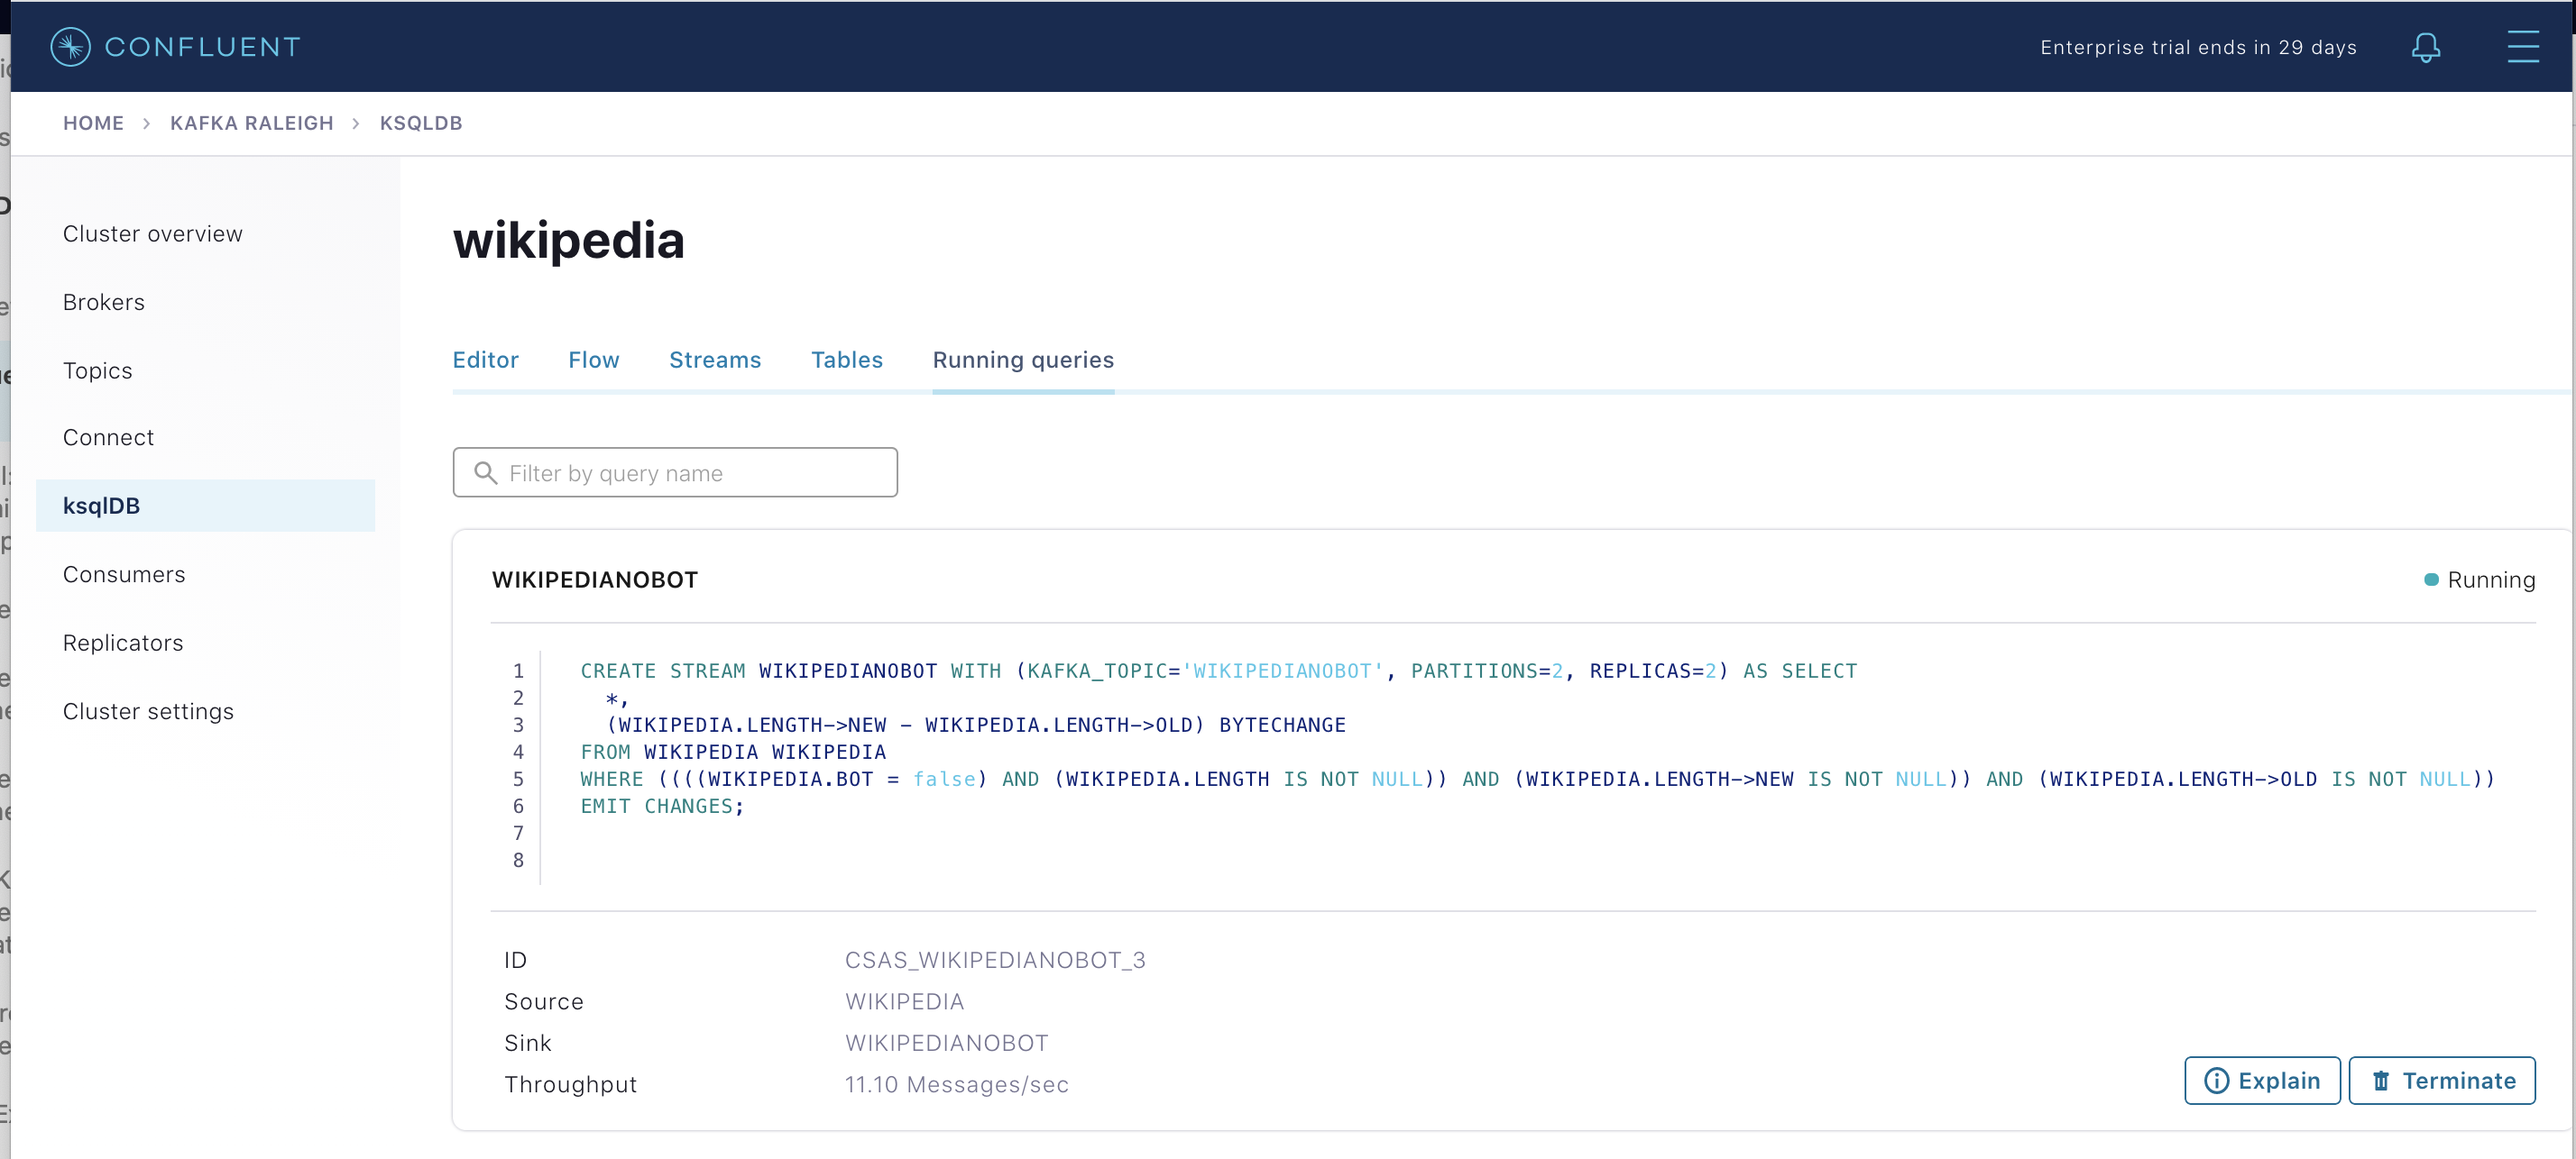
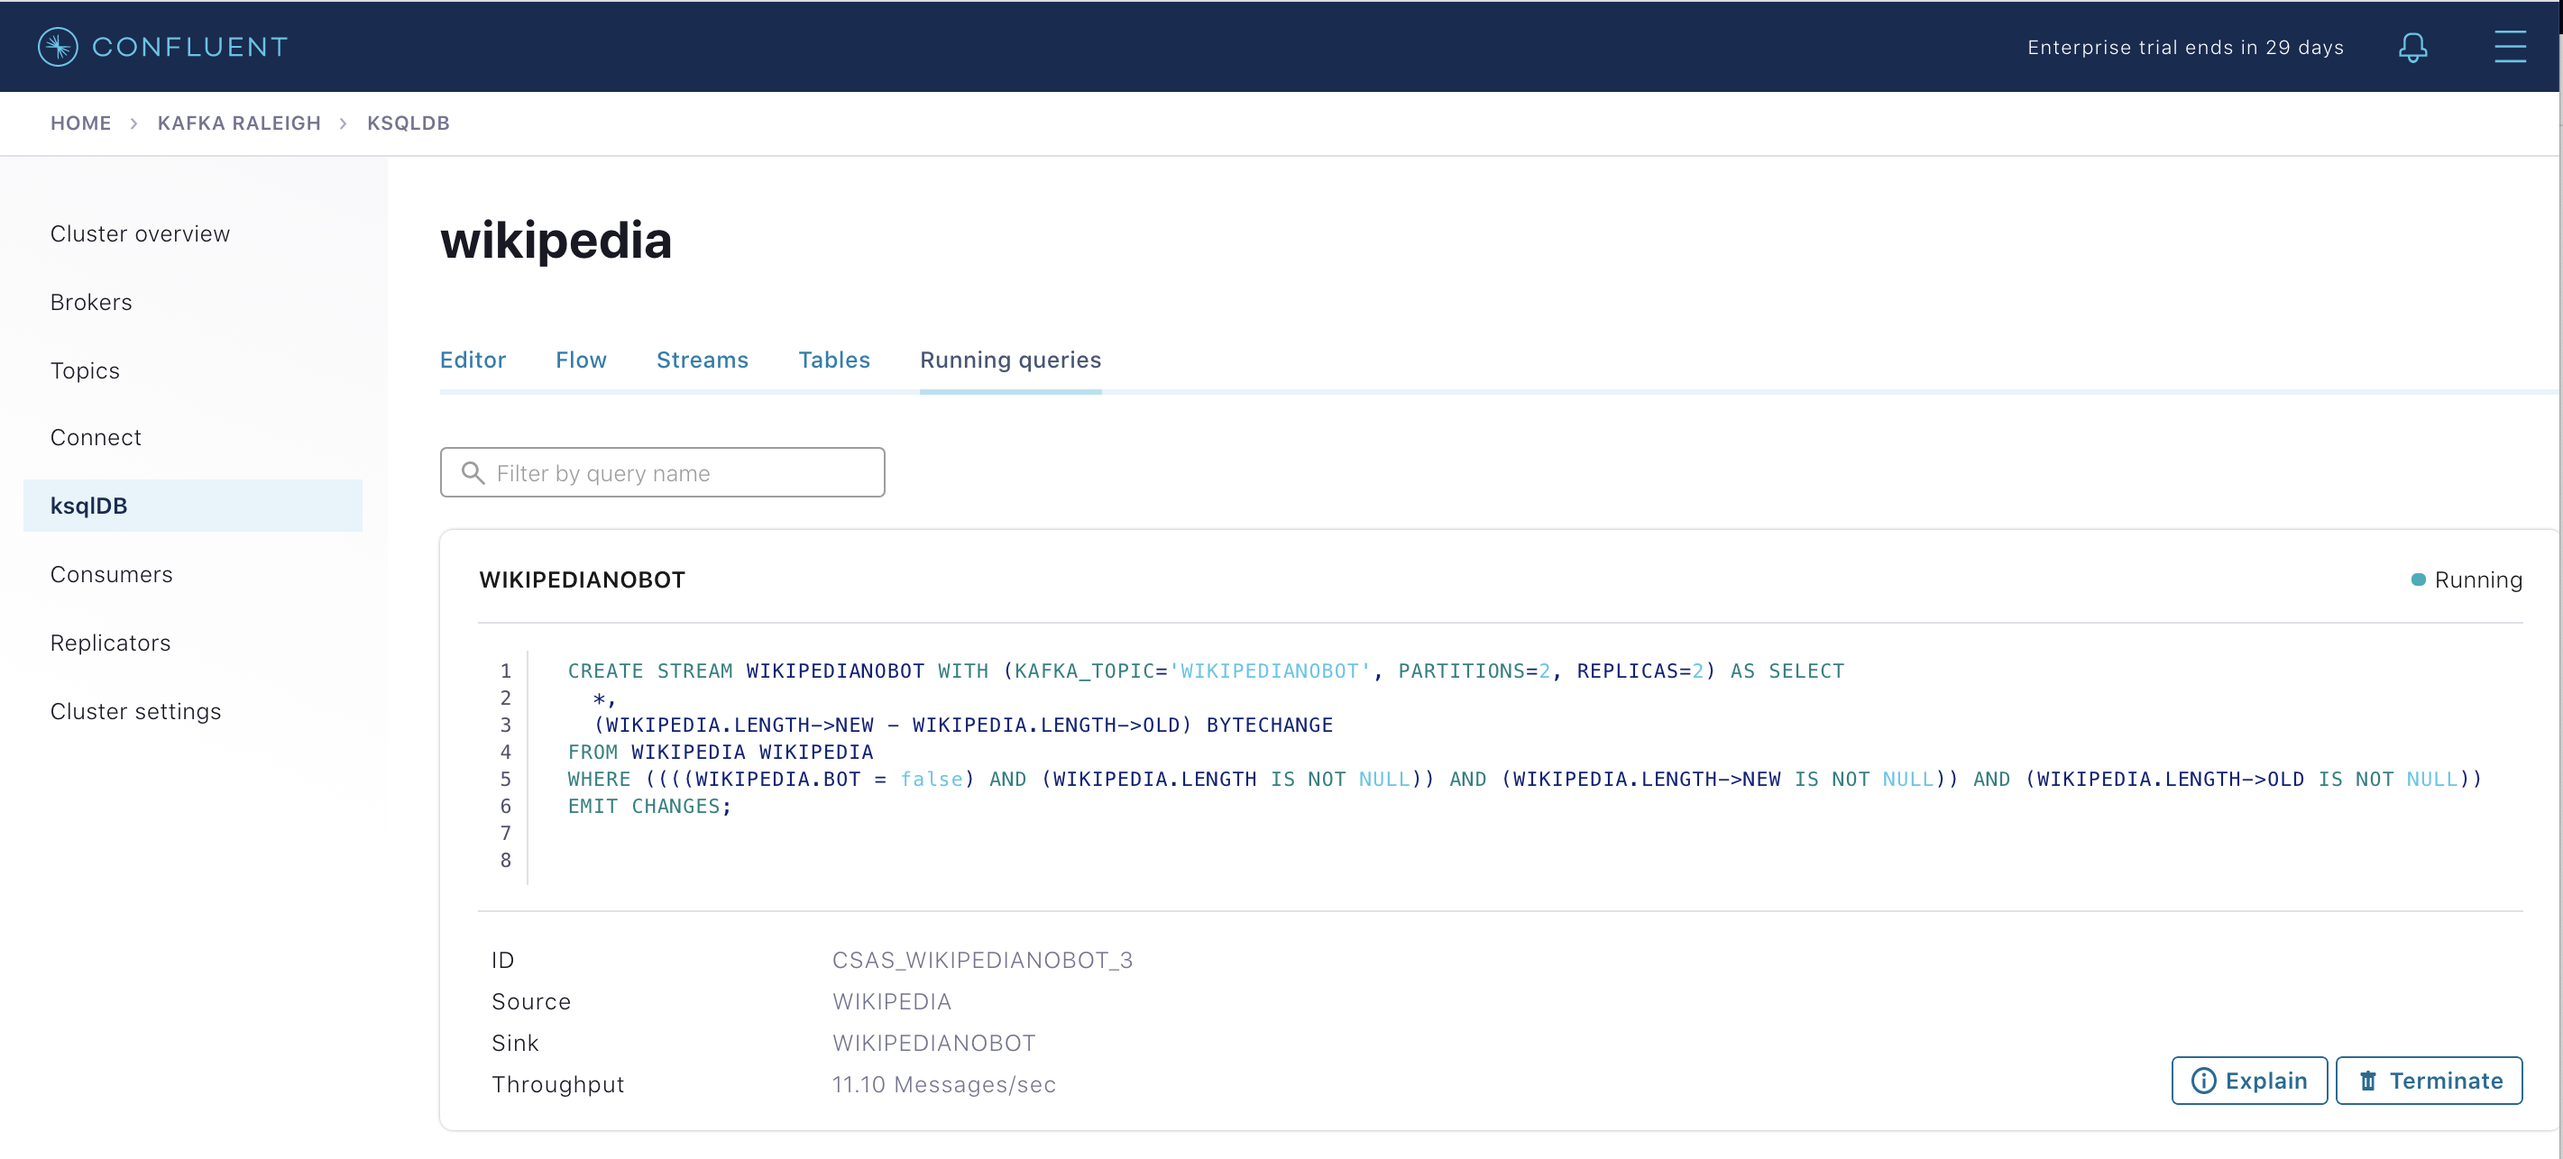
Resize images

diff --git a/docs/index.rst b/docs/index.rst
@@ -348,6 +348,7 @@ Its embedded producer is configured to be idempotent, exactly-once in order sema
 #. Click on ``WIKIPEDIA`` to describe the schema (fields or columns) of an existing ksqlDB stream. (If you are using the ksqlDB CLI, at the ``ksql>`` prompt type ``DESCRIBE WIKIPEDIA;``)
 
    .. figure:: images/wikipedia_describe.png
+      :width: 600px
       :alt: image
 
 #. View the existing ksqlDB tables. (If you are using the ksqlDB CLI, at the ``ksql>`` prompt type ``SHOW TABLES;``). One table is called ``WIKIPEDIA_COUNT_GT_1``, which counts occurrences with a tumbling window.
@@ -363,7 +364,7 @@ Its embedded producer is configured to be idempotent, exactly-once in order sema
 #. View messages from different ksqlDB streams and tables. Click on your stream of choice and then click **Query stream** to open the Query Editor. The editor shows a pre-populated query, like ``select * from WIKIPEDIA EMIT CHANGES;``, and it shows results for newly arriving data.
 
    .. figure:: images/ksql_query_topic.png
-      :width: 500px
+      :width: 600px
 
 #. Click **ksqlDB Editor** and run the ``SHOW PROPERTIES;`` statement. You can see the configured ksqlDB server properties and check these values with the :devx-cp-demo:`docker-compose.yml|docker-compose.yml` file.
 
@@ -441,6 +442,7 @@ Consumers
    line graph to view a breakdown of latencies through the entire :ref:`request lifecycle <c3_brokers_consumption_metrics>`.
 
    .. figure:: images/slow_consumer_produce_latency_breakdown.png
+      :width: 500px
       :alt: image
 
 
@@ -1281,6 +1283,7 @@ the two Kafka brokers.
    and replication" box to view when broker counts changed.
 
    .. figure:: images/broker_down_times.png
+      :width: 600px
       :alt: image
 
 
